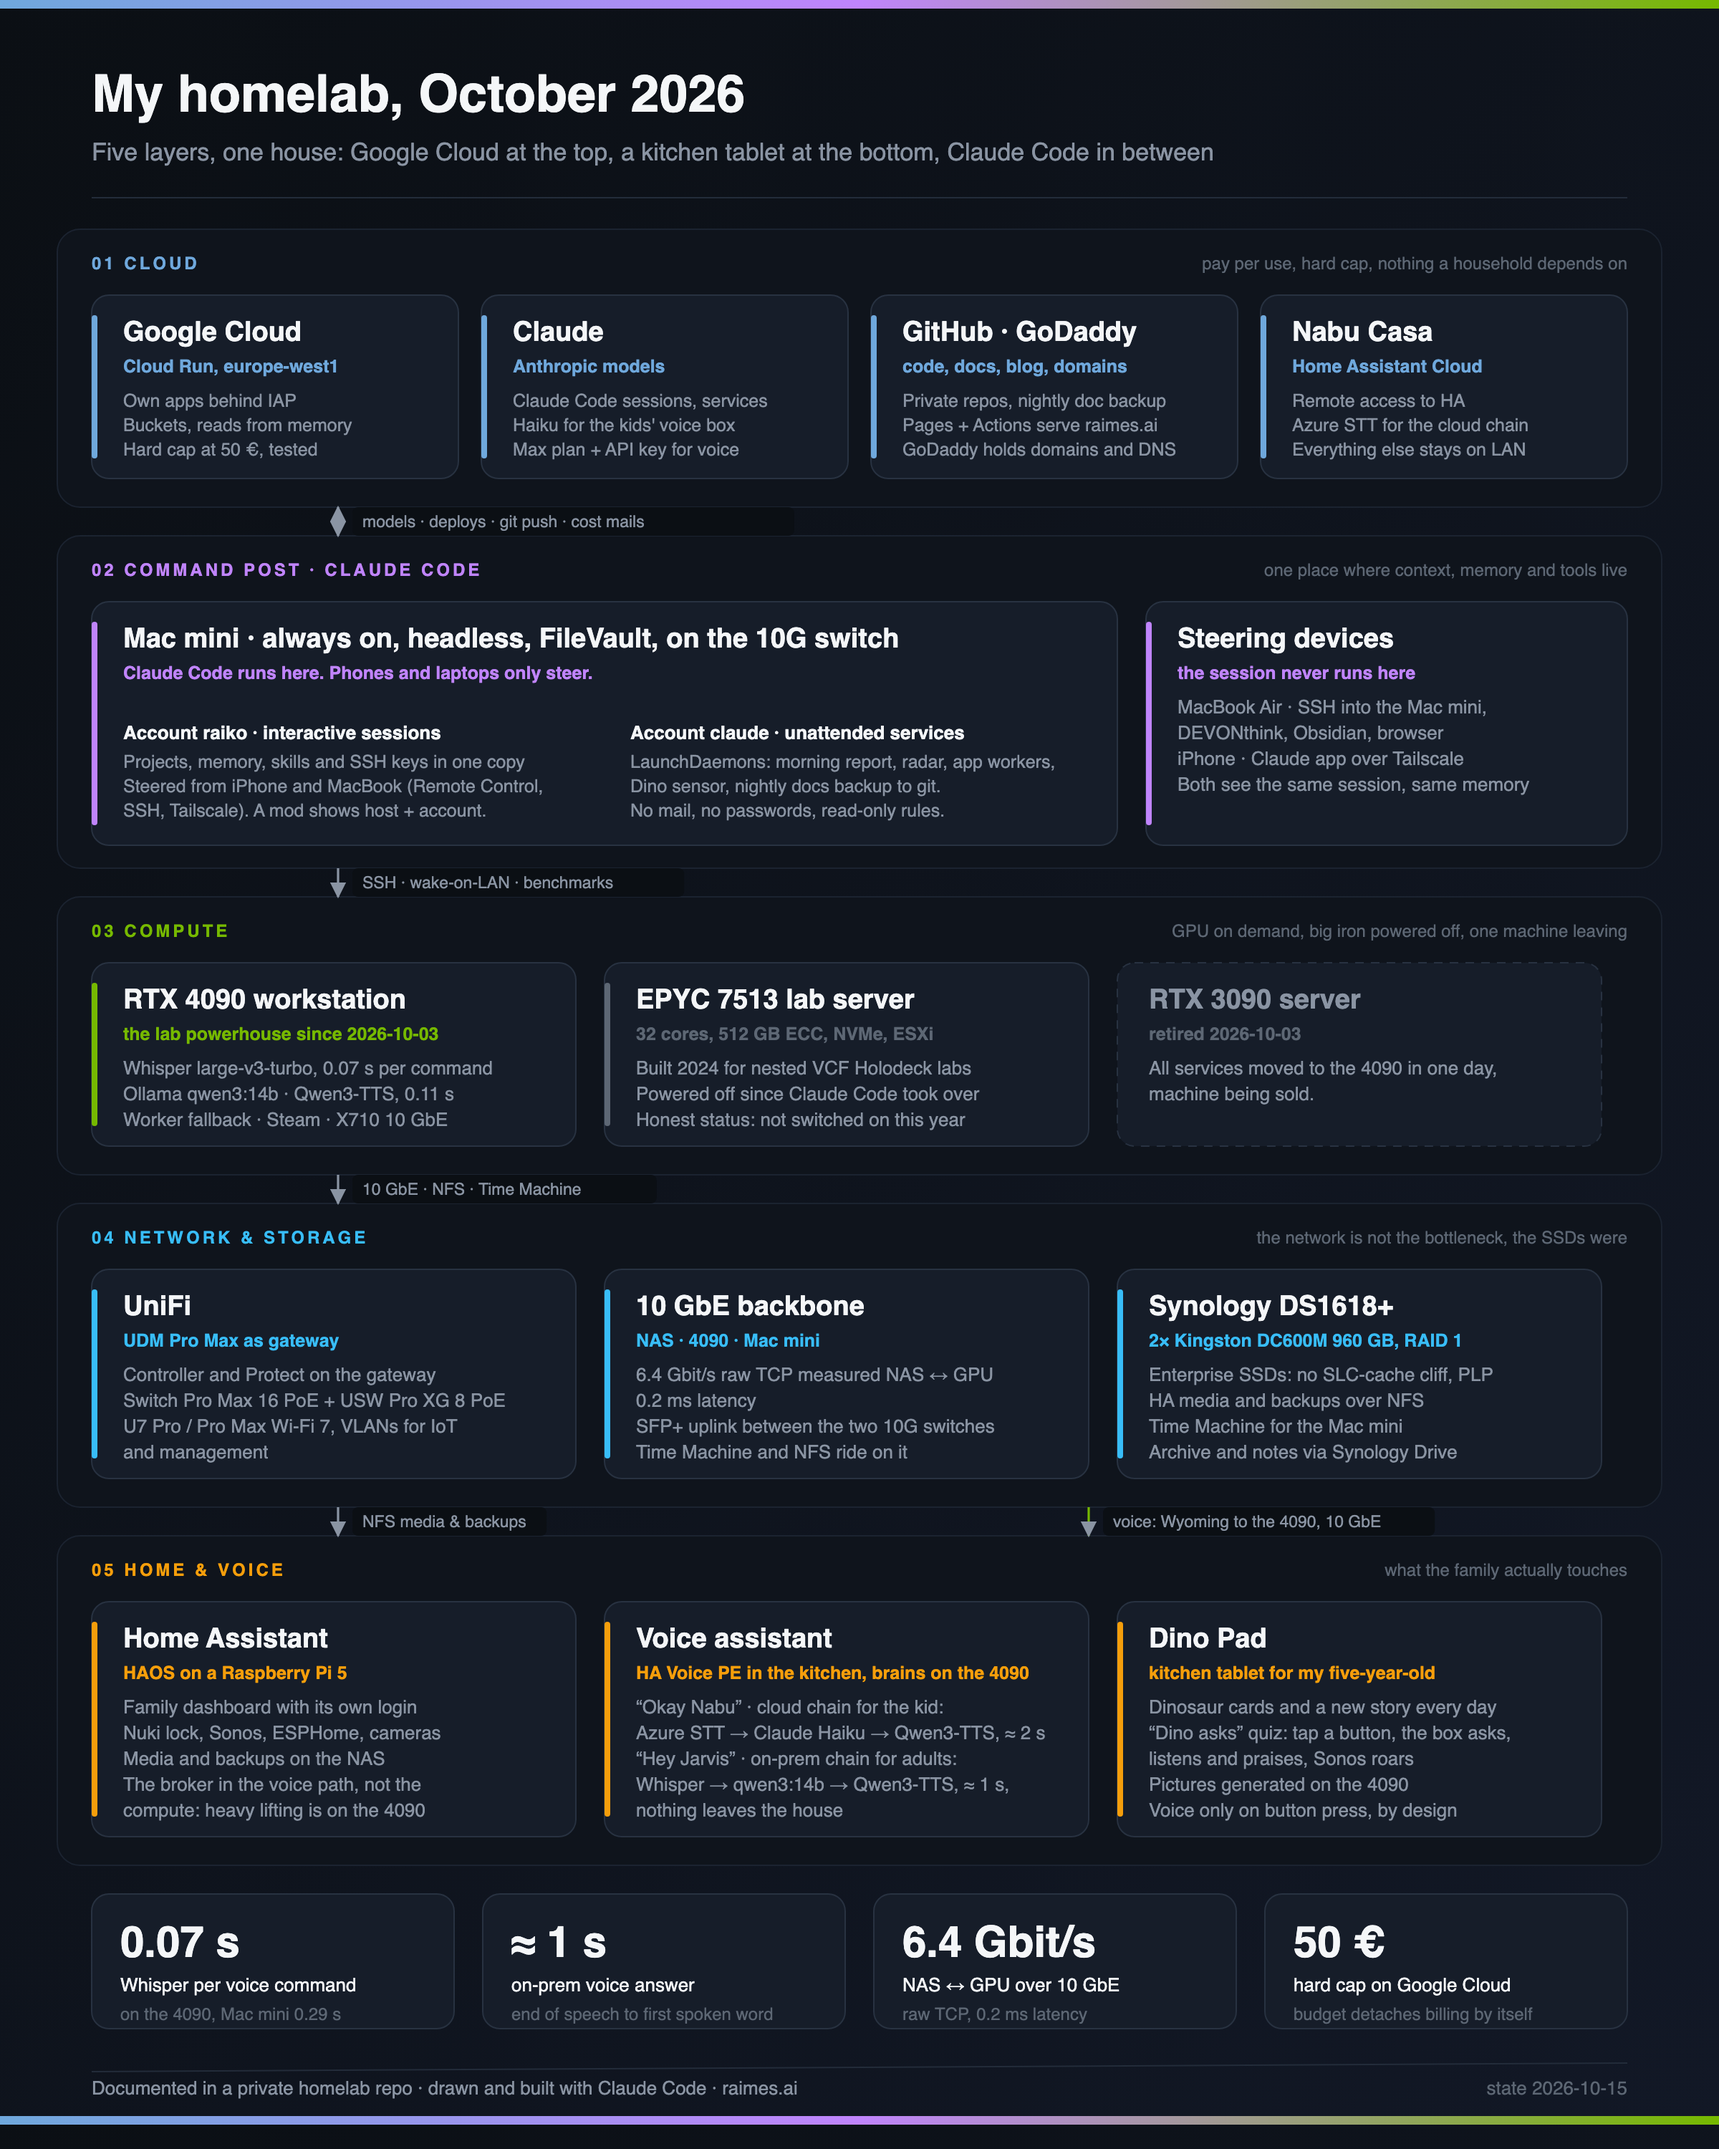
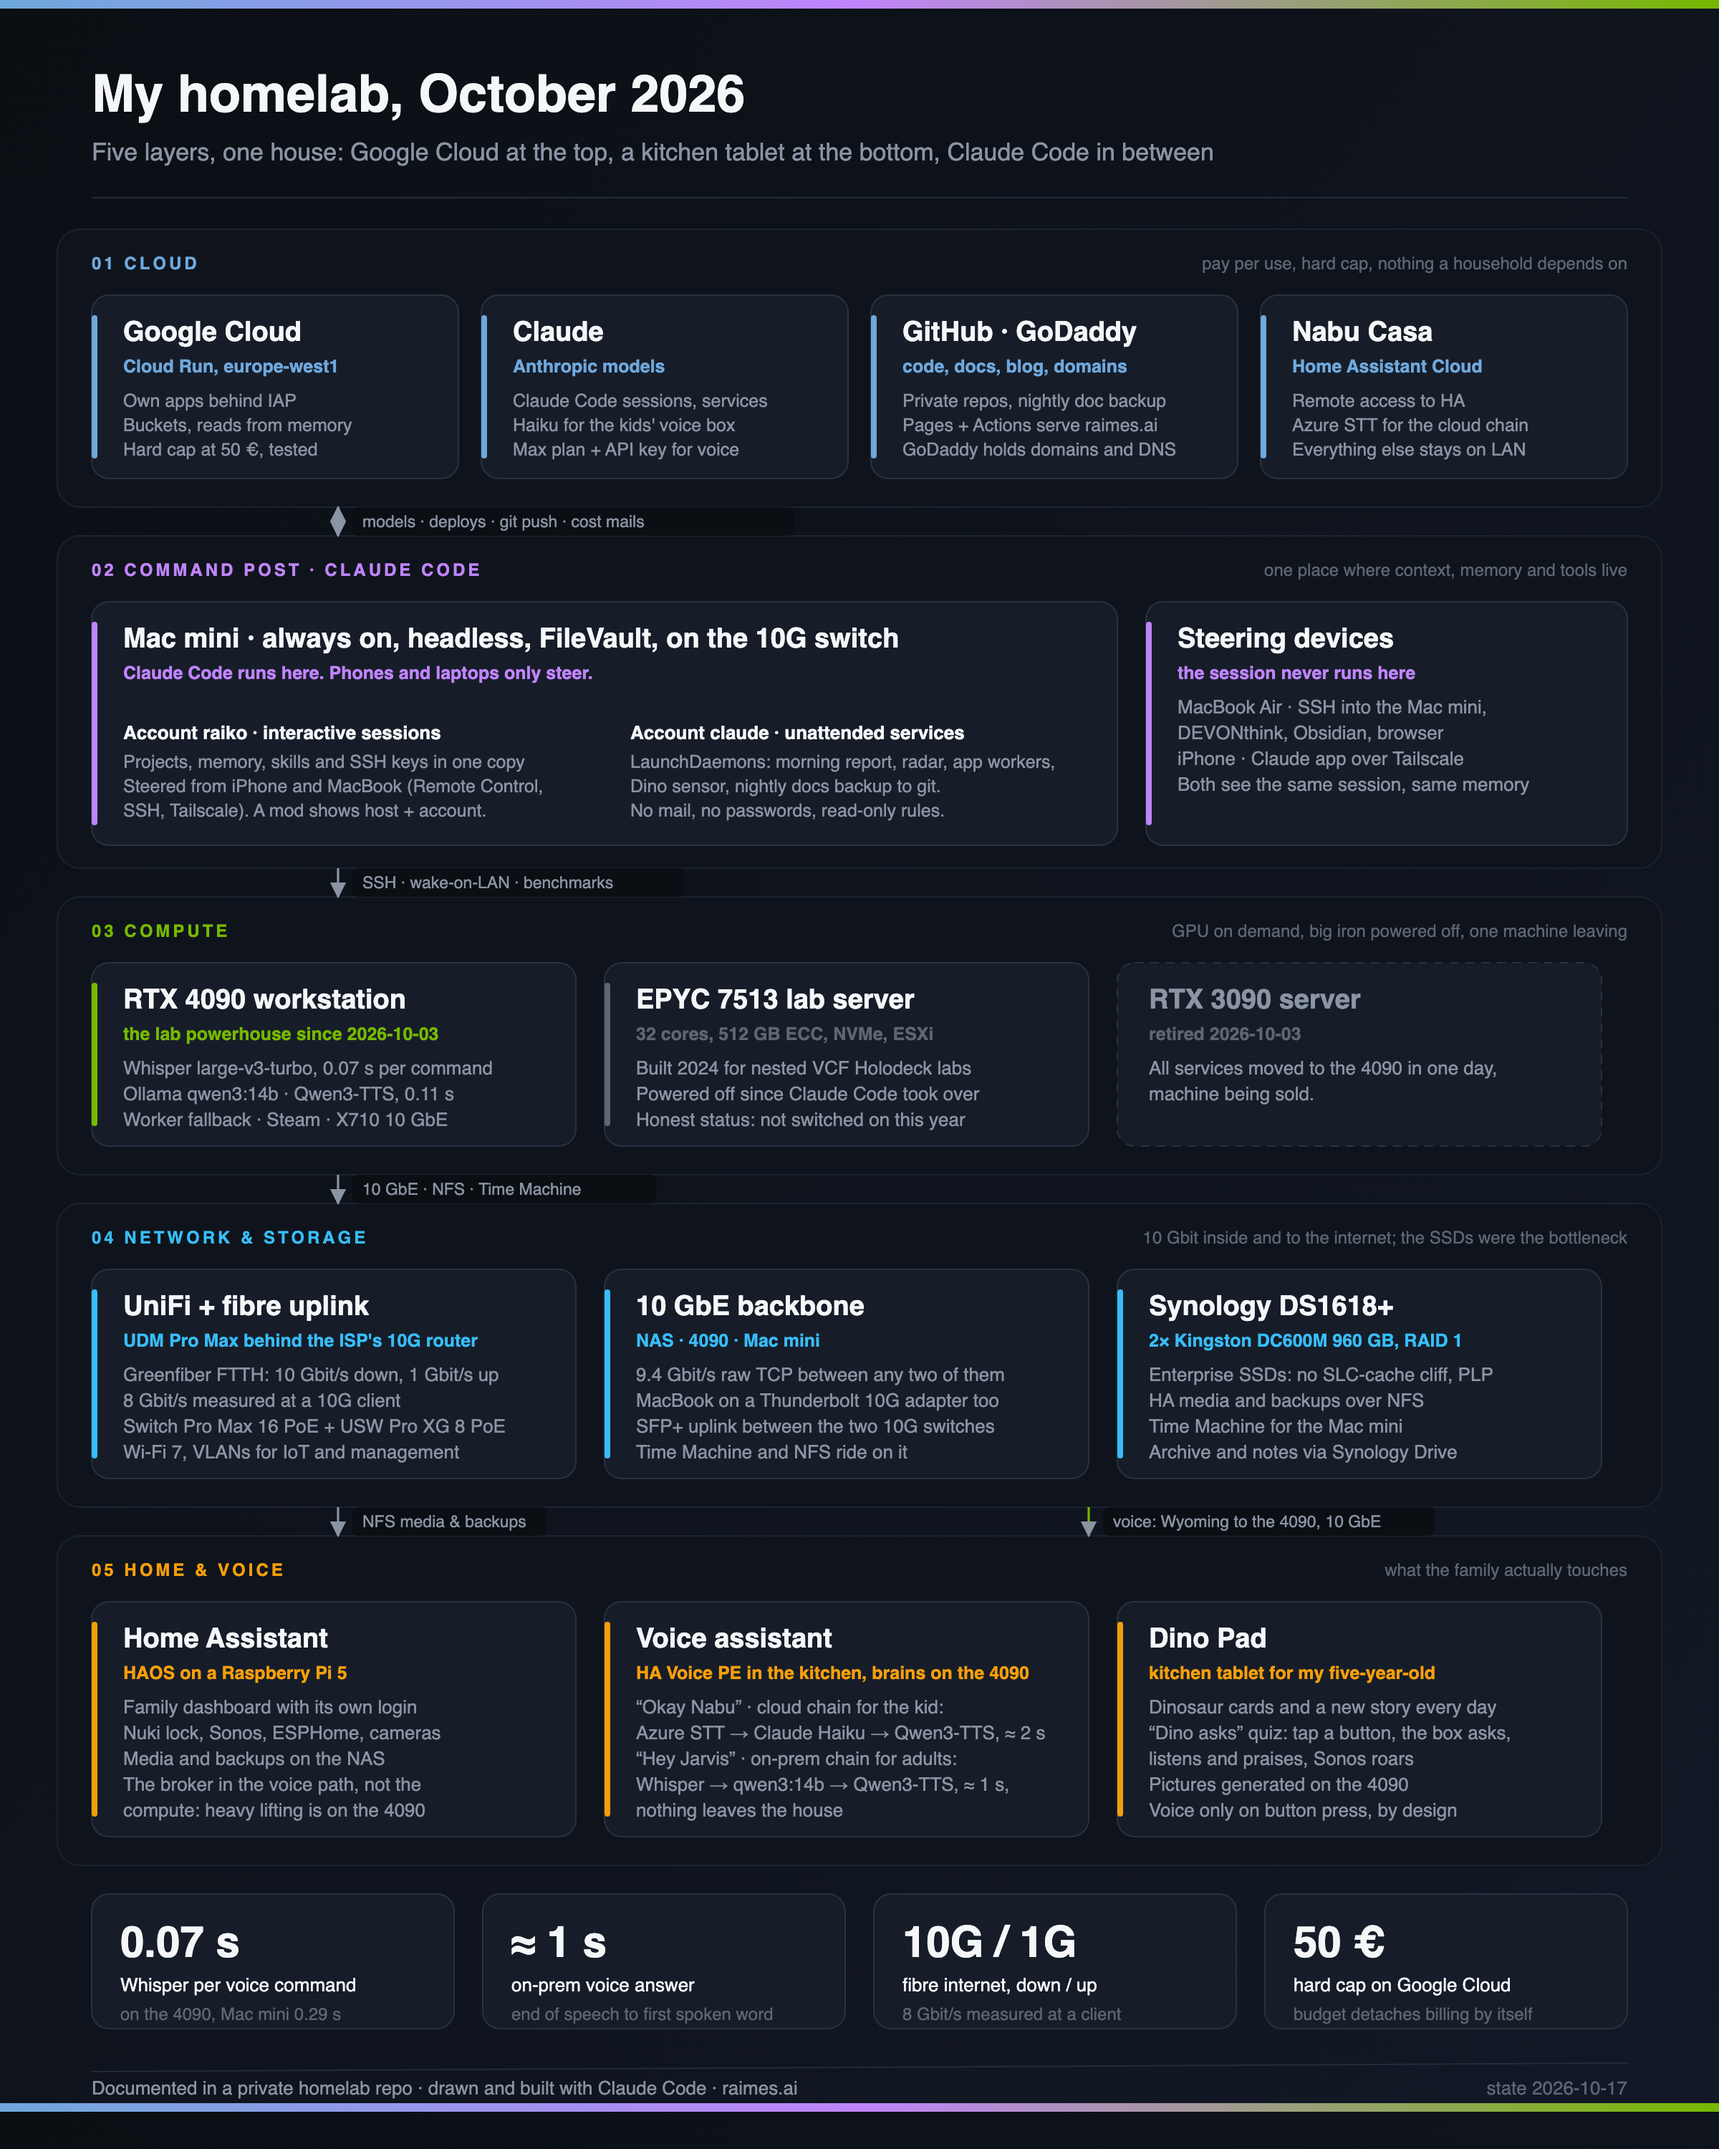
Homelab card: fibre uplink 10G/1G and full 10G matrix
Network layer now names the Greenfiber FTTH line (10 Gbit/s down, 1 Gbit/s up
by tariff, 8 Gbit/s measured at a 10G client) and the 9.4 Gbit/s raw TCP
between any two of the four 10G hosts. Key figure 6.4 Gbit/s NAS-GPU replaced
by 10G / 1G fibre internet. Post gets a one-line update note.

diff --git a/content/posts/my-homelab-in-five-layers.md b/content/posts/my-homelab-in-five-layers.md
@@ -19,6 +19,8 @@ Here is the October 2026 version. Five layers, one house.
 
 [Full-size PNG](/images/homelab-october-2026/architecture-card.png), 2400 × 3000 px.
 
+*Card refreshed 2026-10-17: the network layer now shows the fibre uplink (10 Gbit/s down, 1 Gbit/s up by tariff, 8 Gbit/s measured at a client) and the full 10G matrix, 9.4 Gbit/s between any two of the four 10G hosts.*
+
 ## Starting point: everything ran on the laptop
 
 Until two weeks ago the MacBook was the centre. It held the notes, the project folders, the Claude Code sessions and the background jobs: the notes sync, the nightly documentation backup, the workers for my cloud apps. When the lid closed, the jobs stopped.
